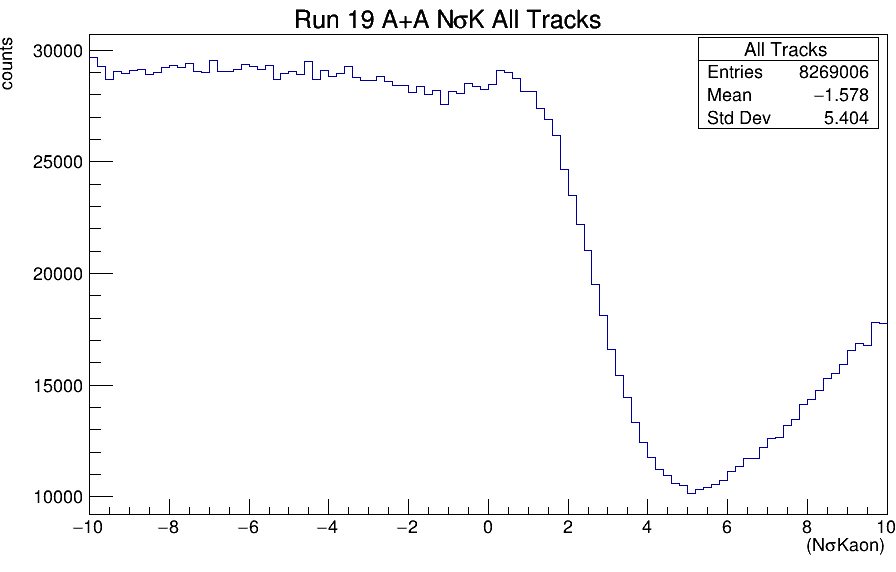
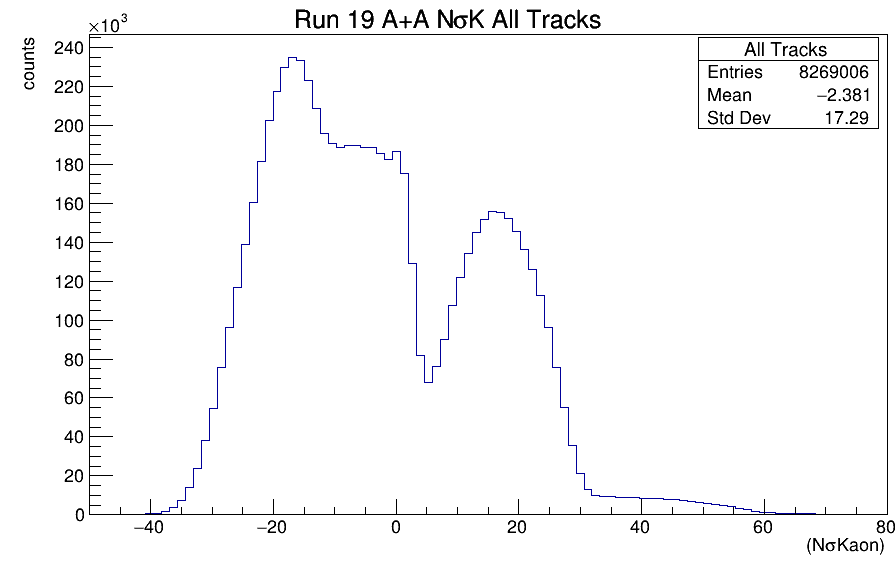
changed dedx to be momentum based instead of pt. modified pt resolution to be slight based

diff --git a/phi_selection_pt_resolution/daughter_distribution.C b/phi_selection_pt_resolution/daughter_distribution.C
@@ -39,11 +39,11 @@ void daughter_distribution() {
                -3.15, 3.15);
   TH1F *all_Npion = new TH1F(
       "All Tracks", "Run 19 A+A N#sigma#pi All Tracks;(N#sigmaPion);counts",
-      100, -10, 10);
+      100, -10, 80);
 
   TH1F *all_Nkaon = new TH1F(
       "All Tracks", "Run 19 A+A N#sigmaK All Tracks;(N#sigmaKaon);counts", 100,
-      -10, 10);
+      -50, 80);
 
   TH2F *all_pt_NPion = new TH2F(
       "All Tracks", "Run 19 A+A N#sigmaPion All Tracks;P_{T};N#sigmaPion", 100,
